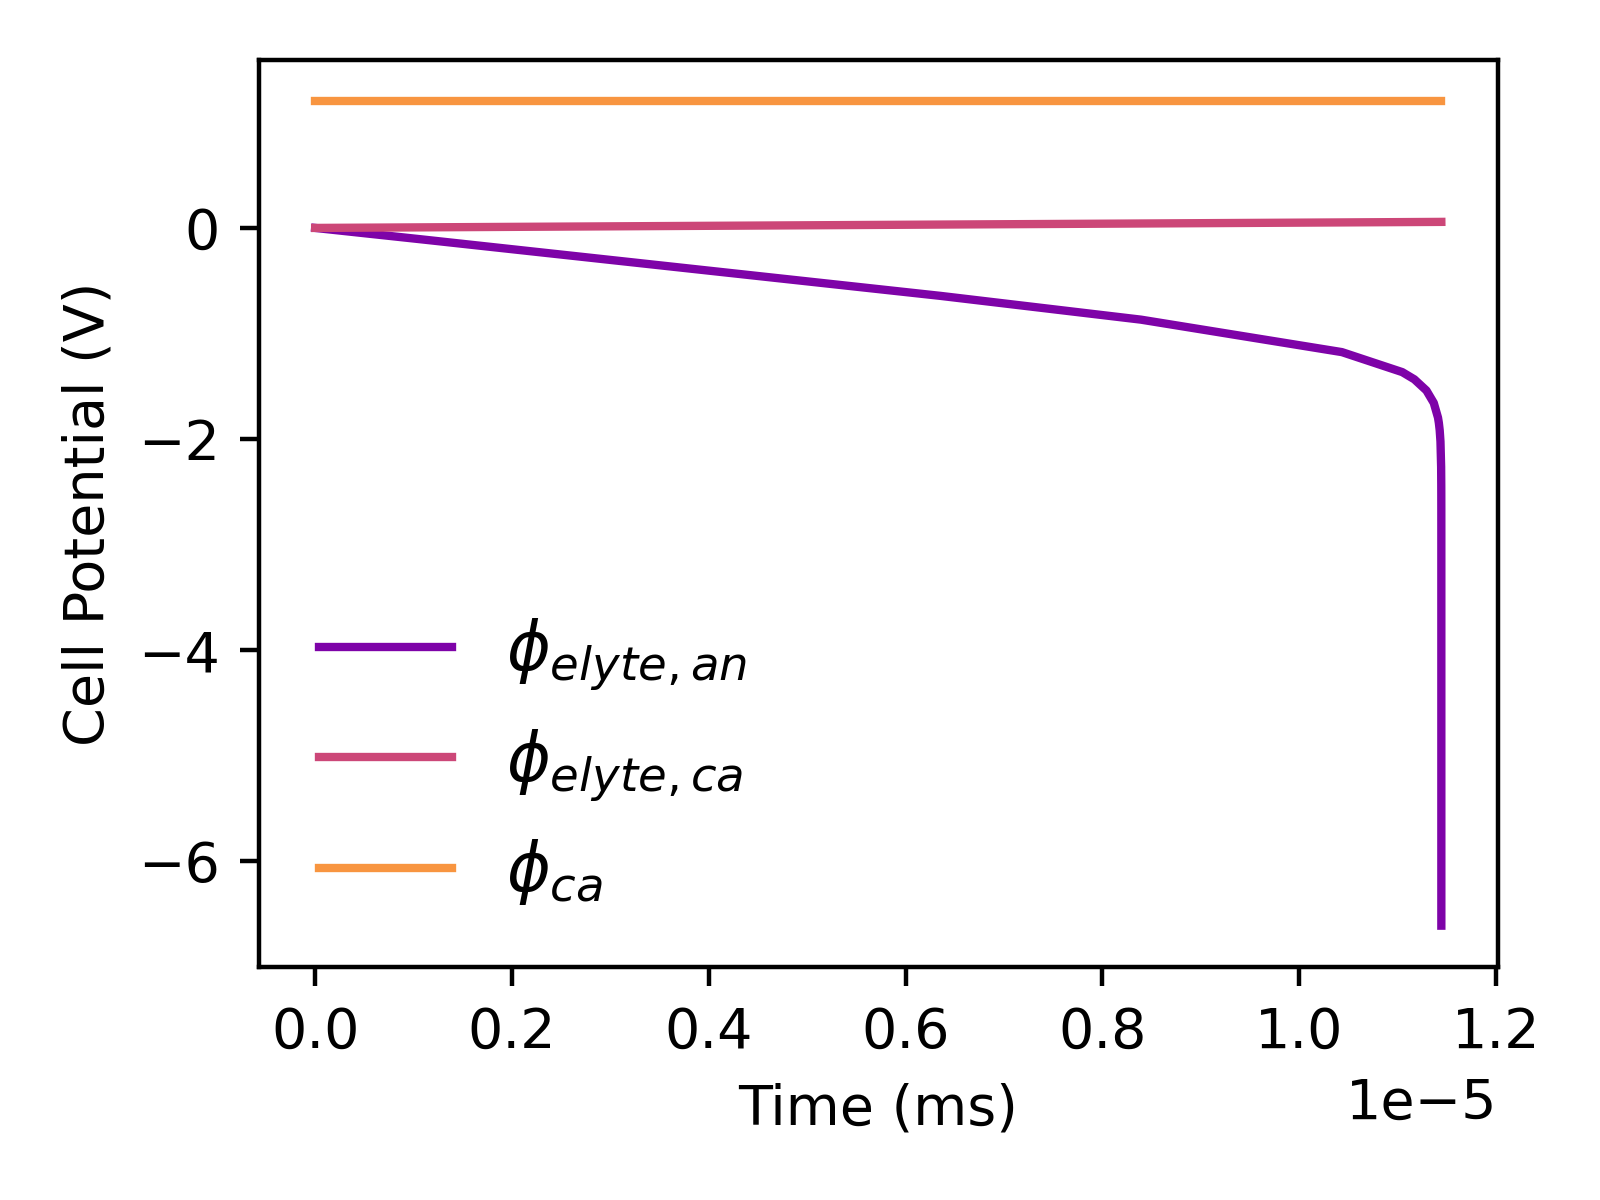
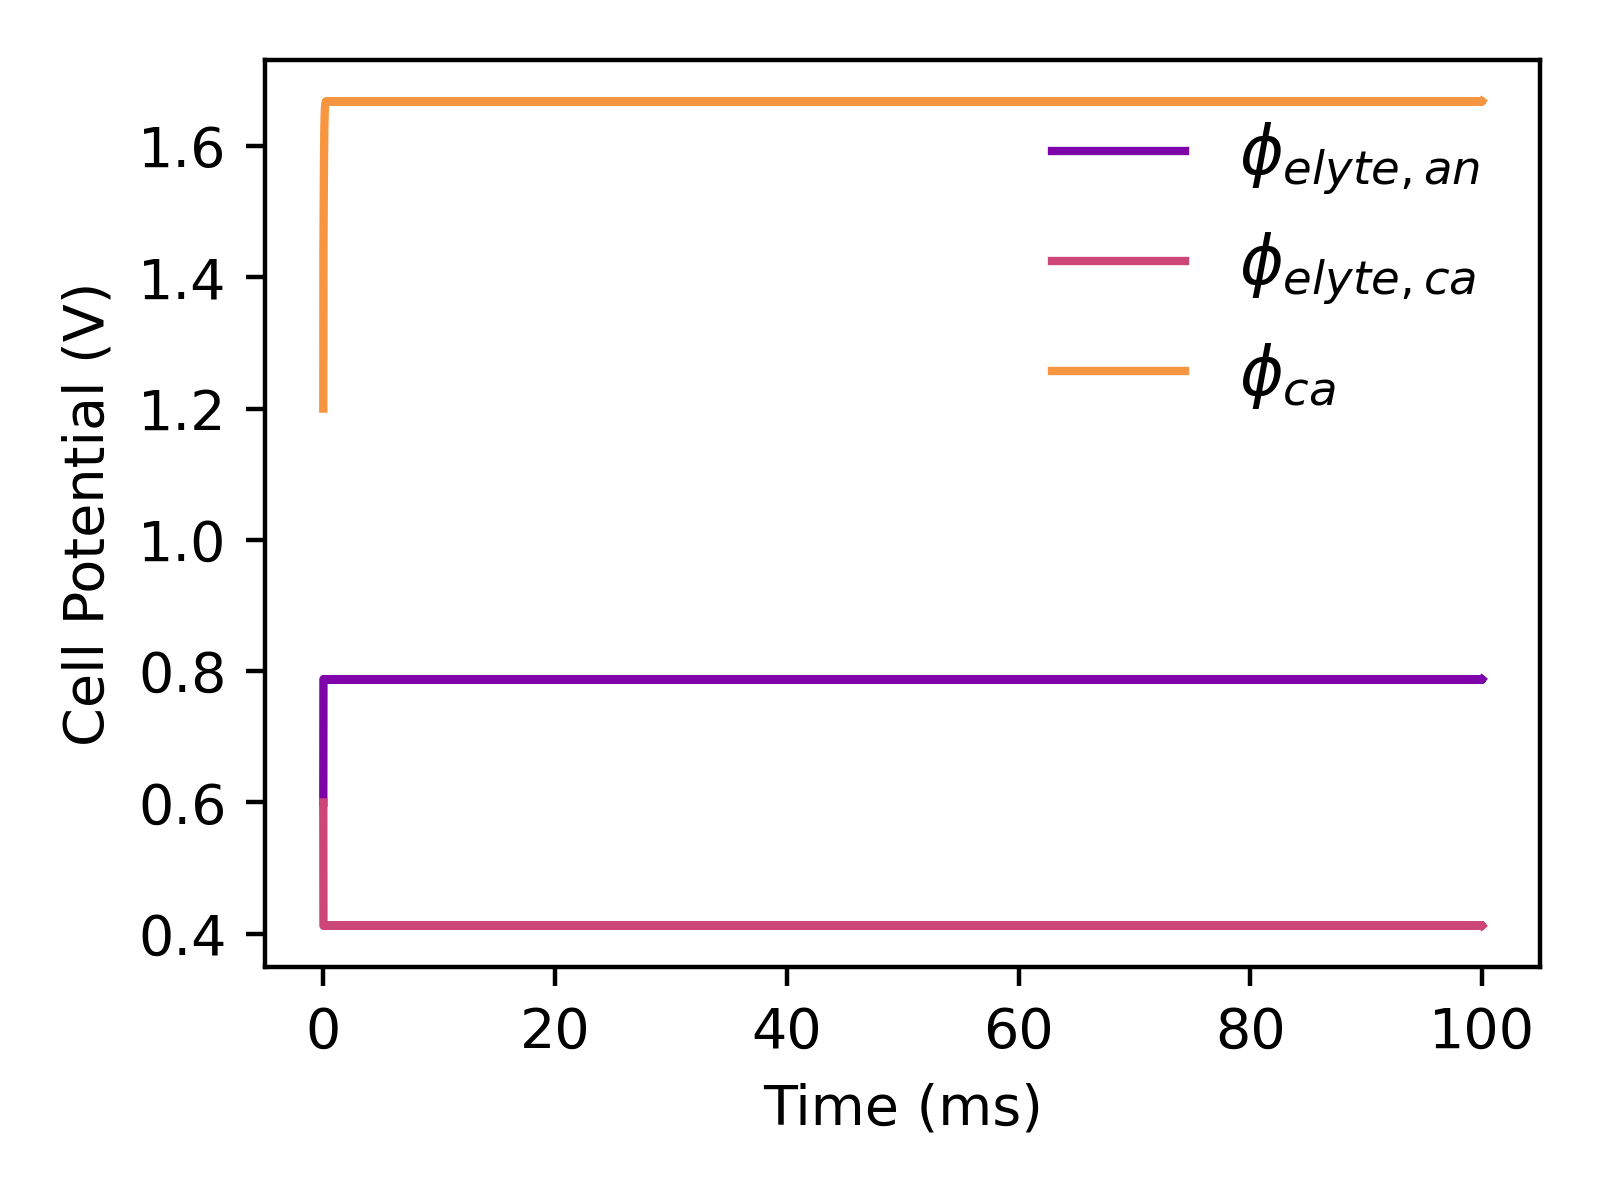
adding figures

diff --git a/Luthra/sofc_model_approach1.py b/Luthra/sofc_model_approach1.py
@@ -24,7 +24,7 @@ nvars = 3           # Number of variables in solution vector SV.  Set this manua
                     #for now
 
 class params:
-    i_ext = 0     # External current (A/m2)
+    i_ext = 0.5     # External current (A/m2)
     T = 973         # Temperature (K)
 
 # Positions in solution vector
@@ -104,7 +104,7 @@ def derivative(_, SV, params, ptr):
 
 "========= RUN / INTEGRATE MODEL ========="
 # Function call expects inputs (residual function, time span, initial value).
-solution = solve_ivp(derivative, [0, .0001], SV_0, args=(params, ptr))
+solution = solve_ivp(derivative, [0, .001], SV_0, args=(params, ptr))
 
 
 "========= PLOTTING AND POST-PROCESSING ========="
@@ -141,6 +141,6 @@ ax.legend(prop=font, frameon=False)
 fig.tight_layout()
 
 # Uncomment to save the figure, if you want. Name it however you please:
-plt.savefig('HW2_results.png', dpi=400)
+plt.savefig('HW2_results_ext_current.png', dpi=400)
 # Show figure:
 plt.show()
